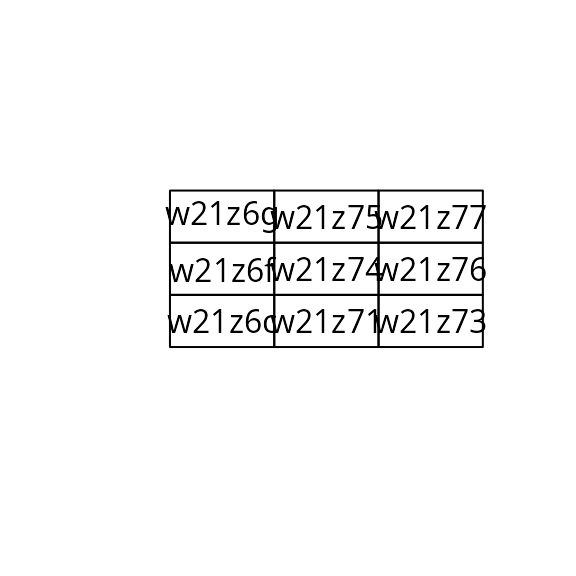
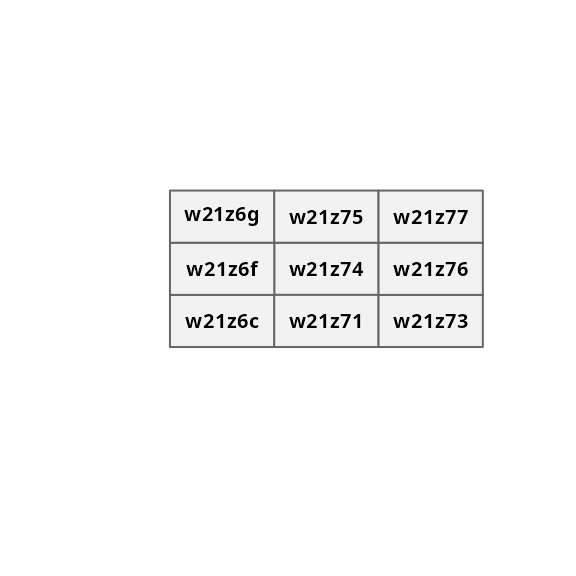
tweak merlion plot

Changed region(s): [[0.2812, 0.3125, 0.8438, 0.625]]

diff --git a/docs/articles/geohashTools.html b/docs/articles/geohashTools.html
@@ -265,10 +265,11 @@ previous example with the Singapore Merlion.</p>
 <span><span class="va">merlion_nbhd</span> <span class="op">&lt;-</span> <span class="fu"><a href="../reference/gis_tools.html">gh_to_sf</a></span><span class="op">(</span><span class="va">merlion_ghs</span><span class="op">)</span></span>
 <span></span>
 <span><span class="co"># Example plot of geohashes neighbouring w21z74</span></span>
-<span><span class="fu"><a href="https://rdrr.io/r/graphics/plot.default.html" class="external-link">plot</a></span><span class="op">(</span><span class="fu"><a href="https://r-spatial.github.io/sf/reference/st_geometry.html" class="external-link">st_geometry</a></span><span class="op">(</span><span class="va">merlion_nbhd</span><span class="op">)</span>, col <span class="op">=</span> <span class="cn">NA</span>, reset <span class="op">=</span> <span class="cn">FALSE</span>, key.pos <span class="op">=</span> <span class="cn">NULL</span><span class="op">)</span></span>
+<span><span class="fu"><a href="https://rdrr.io/r/graphics/plot.default.html" class="external-link">plot</a></span><span class="op">(</span><span class="fu"><a href="https://r-spatial.github.io/sf/reference/st_geometry.html" class="external-link">st_geometry</a></span><span class="op">(</span><span class="va">merlion_nbhd</span><span class="op">)</span>, col <span class="op">=</span> <span class="st">'grey95'</span>, border <span class="op">=</span> <span class="st">'grey40'</span>, reset <span class="op">=</span> <span class="cn">FALSE</span><span class="op">)</span></span>
 <span><span class="fu"><a href="https://rdrr.io/r/graphics/text.html" class="external-link">text</a></span><span class="op">(</span></span>
 <span>  <span class="fu"><a href="https://r-spatial.github.io/sf/reference/st_coordinates.html" class="external-link">st_coordinates</a></span><span class="op">(</span><span class="fu"><a href="https://r-spatial.github.io/sf/reference/geos_unary.html" class="external-link">st_centroid</a></span><span class="op">(</span><span class="va">merlion_nbhd</span><span class="op">)</span><span class="op">)</span>,</span>
-<span>  labels <span class="op">=</span> <span class="fu"><a href="https://rdrr.io/r/base/row.names.html" class="external-link">row.names</a></span><span class="op">(</span><span class="va">merlion_nbhd</span><span class="op">)</span></span>
+<span>  labels <span class="op">=</span> <span class="fu"><a href="https://rdrr.io/r/base/row.names.html" class="external-link">row.names</a></span><span class="op">(</span><span class="va">merlion_nbhd</span><span class="op">)</span>,</span>
+<span>  cex <span class="op">=</span> <span class="fl">0.65</span>, font <span class="op">=</span> <span class="fl">2L</span></span>
 <span><span class="op">)</span></span></code></pre></div>
 <p><img src="geohashTools_files/figure-html/merlion_nbhd-1.png" class="r-plt" alt="" width="\textwidth"></p>
 </div>